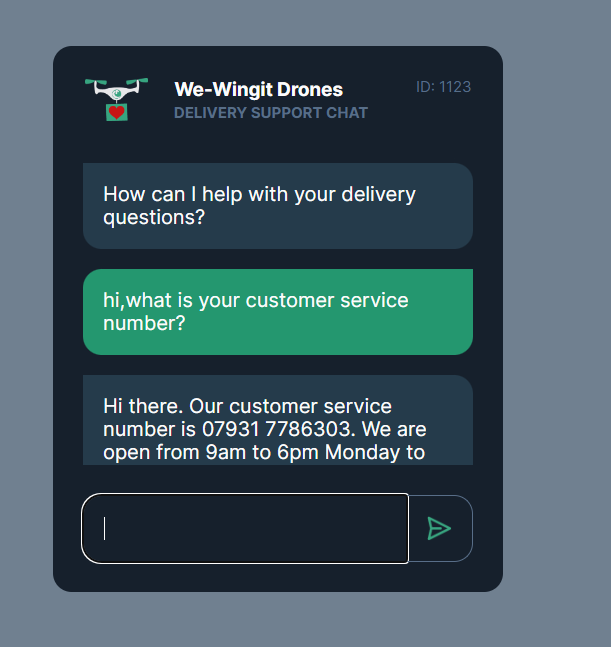
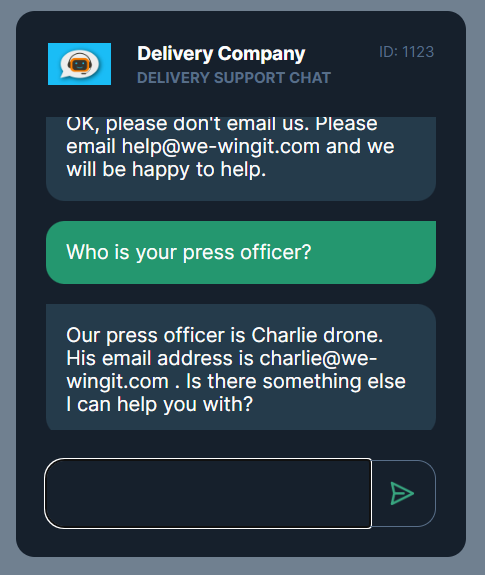
changes

diff --git a/index.html b/index.html
@@ -2,19 +2,26 @@
 <html>
 
 	<head><link rel="stylesheet" href="https://cdnjs.cloudflare.com/ajax/libs/normalize/8.0.1/normalize.css">
-		<title>We-Wingit Support</title>
+		<title>Delivery Company Support</title>
 		<link rel="stylesheet" href="index.css">
 		<link rel="preconnect" href="https://fonts.googleapis.com">
 		<link rel="preconnect" href="https://fonts.gstatic.com" crossorigin>
 		<link href="https://fonts.googleapis.com/css2?family=Inter:wght@400;700&display=swap" rel="stylesheet">
+		<style>
+			body {
+				background-image: url('images/financial-translation-service.webp');
+				background-size: cover;
+				background-repeat: no-repeat;
+			}
+		</style>
 	</head>
 
 	<body>
 		<main>
 			<section class="chatbot-container">
 				<div class="chatbot-header">
-					<img src="images/drone-logo.png" class="logo">
-					<h1>We-Wingit Drones</h1>
+					<img src="images/chatbot.jpg" class="logo">
+					<h1>Delivery Company</h1>
 					<h2>Delivery Support Chat</h2>
 					<p class="supportId">ID: 1123</p>
 				</div>

diff --git a/index.js b/index.js
@@ -1,7 +1,7 @@
 import { Configuration, OpenAIApi } from 'openai'
 
 const configuration = new Configuration({
-    apiKey: process.env.OPENAI_API_KEY,
+    apiKey: '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',
 })
 
 const openai = new OpenAIApi(configuration)
